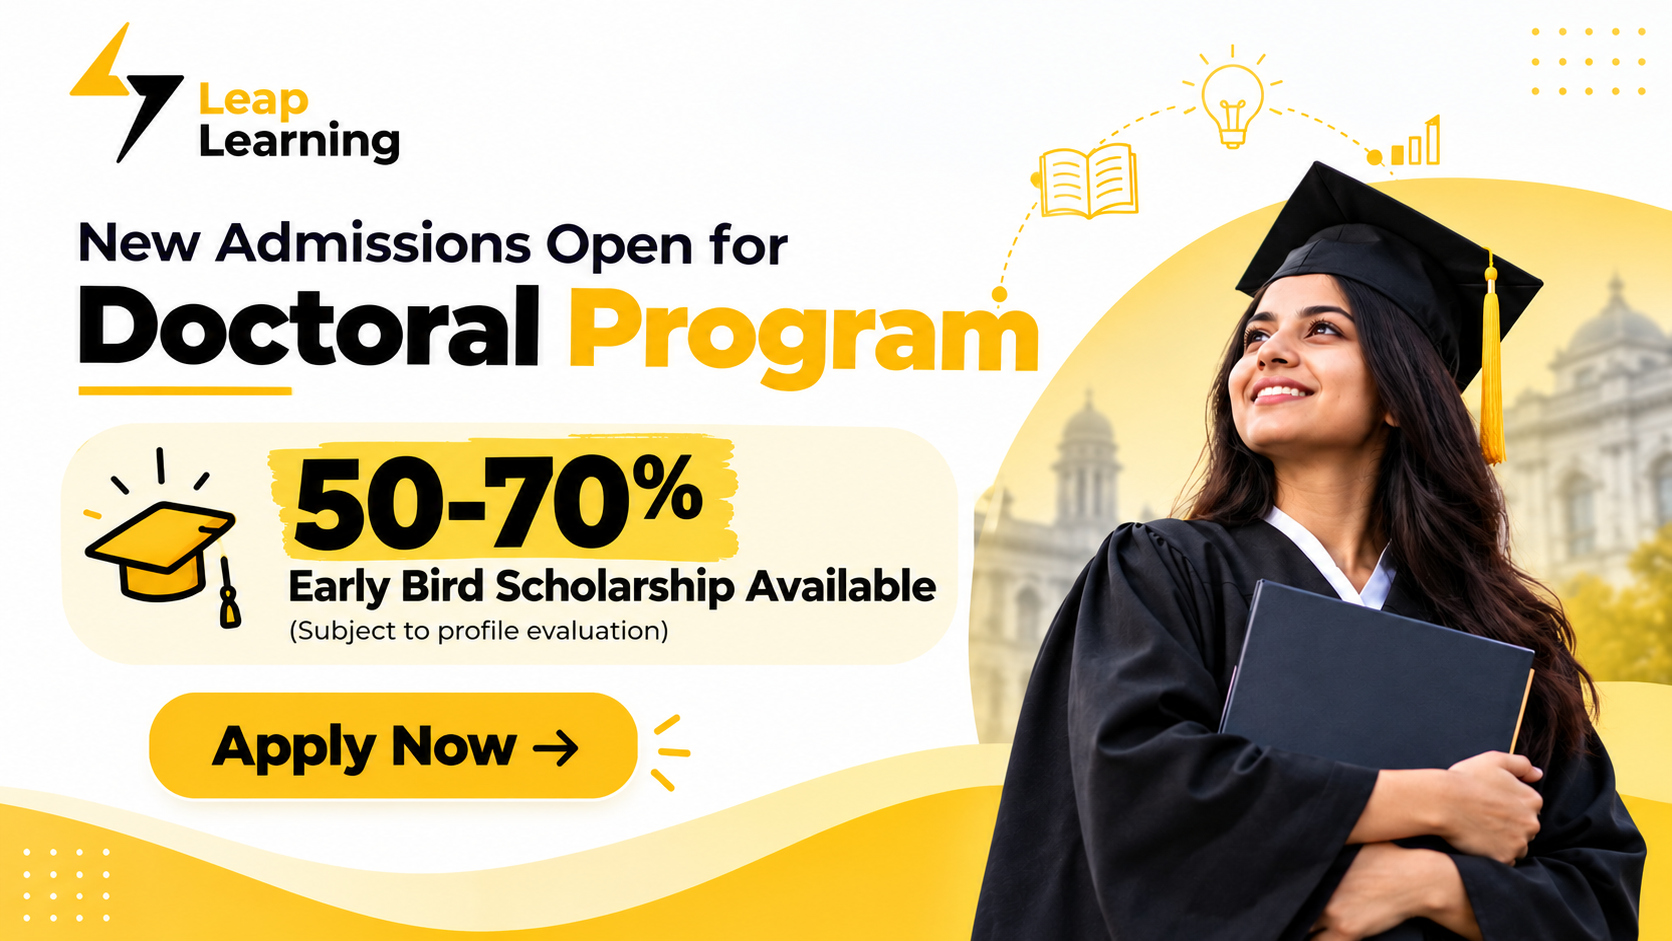
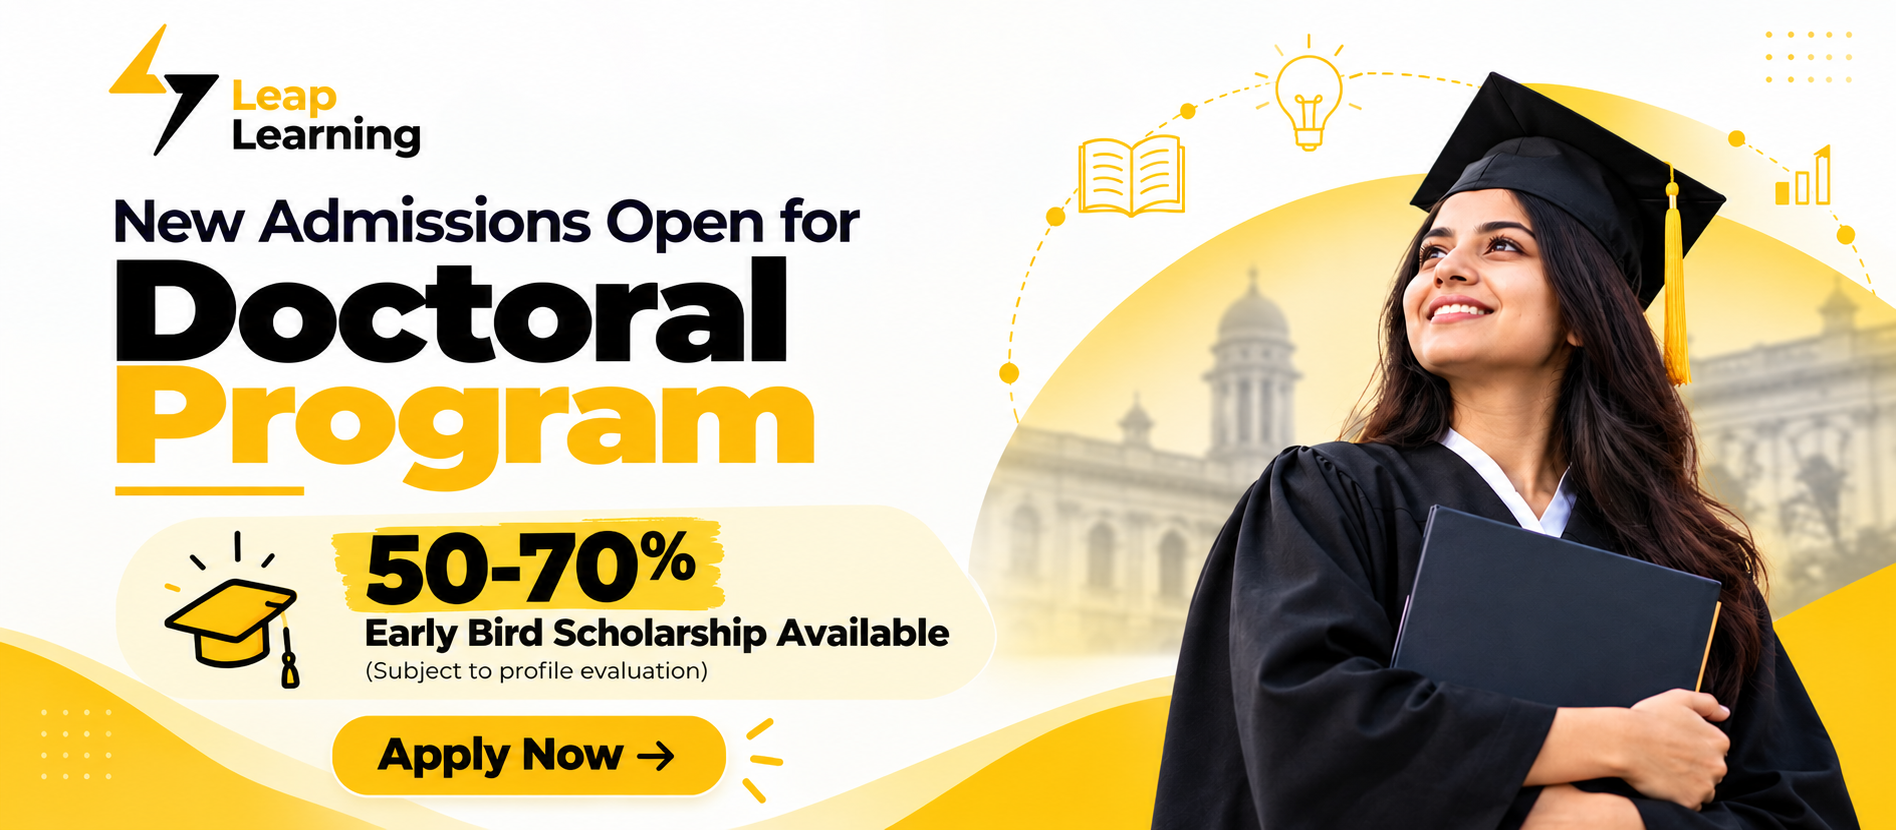
new popup added 2

diff --git a/leep-learning/src/App.js b/leep-learning/src/App.js
@@ -25,7 +25,7 @@ import WhatsAppChat from "./components/WhatsAppChat/WhatsAppChat";
 
 /* ================= PROMOTION POPUP ================= */
 
-// import PromotionPopup from "./components/PromotionPopup/PromotionPopup";
+import PromotionPopup from "./components/PromotionPopup/PromotionPopup";
 
 /* ================= PUBLIC PAGES ================= */
 
@@ -329,7 +329,7 @@ function App() {
           It does NOT affect the CRM route.
           ===================================================== */}
 
-      {/* <PromotionPopup /> */}
+      <PromotionPopup />
     </>
   );
 }
